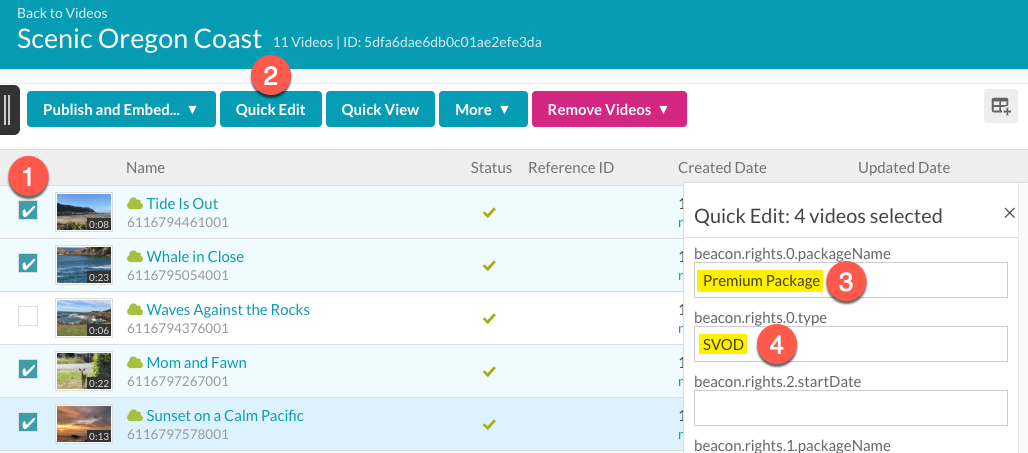
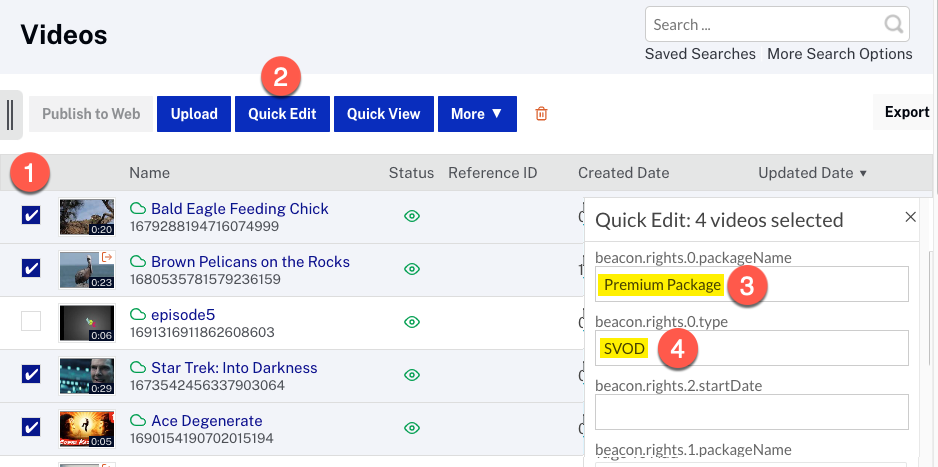
Update Using a Subscription Package for Beacon LA

diff --git a/monetization/using-subscription-package.html b/monetization/using-subscription-package.html
@@ -3,23 +3,18 @@ title: "Using a Subscription Package"
 description: In this topic, you will learn how to use a video subscription package that was created using the <strong>Commerce</strong> tab of Brightcove Beacon. The subscription package implements SVOD (subscription video on demand) monetization. For details on creating the subscription see the <a href="/monetization/creating-subscription-package.html">Creating a Subscription Package</a> document.
 parent: monetization
 ---
-
 <h1>{{ page.title }}</h1>
 <article class="bcls-article">
   <summary>{{ page.description }}</summary>
   <section class="bcls-section">
     <h2 id="Overview">Overview</h2>
     <p>
-      A subscription package defines how a particular set of videos can be purchased by your apps' customers. The subscription package must be created in Brightcove Beacon, and is detailed in the <a href="/monetization/creating-subscription-package.html">Creating a Subscription Package</a> document. Also crucial in the use of the subscription package are the Video Cloud custom fields created for videos in a Video Cloud account, as detailed in the
-      <a href="/syncing-with-video-cloud/vc-custom-fields.html"> Creating Video Cloud Custom Fields </a>
-      document. Specifically, the
-      <a href="/syncing-with-video-cloud/vc-custom-fields.html#Rights_Management_fields"> Rights Management fields
-      </a>
-      will be used.
+      A subscription package defines how a particular set of videos can be purchased by your apps' customers. The subscription package must be created in Brightcove Beacon, and is detailed in the <a href="/monetization/creating-subscription-package.html">Creating a Subscription Package</a> document. Also crucial in the use of the subscription package are the Video Cloud custom fields created for videos in a Video Cloud account, as detailed in the <a href="/monetization/vc-custom-fields.html">Custom Fields for Monetization</a> document. Specifically, the <a href="/monetization/vc-custom-fields.html#Rights_Management_fields">Rights Management fields</a> are used.
     </p>
   </section>
   <section class="bcls-section">
     <h2 id="Understanding_the_rights_management_custom_fields"> Understanding the rights management custom fields </h2>
+    <aside class="bcls-aside bcls-aside--information">For more information on creating and using custom fields with Brightcove Beacon, see the <a href="/monetization/vc-custom-fields.html">Custom Fields for Monetization</a> document.</aside>
     <p>The rights management custom fields consist of:</p>
     <ul>
       <li>beacon.rights.&lt;counter&gt;.type</li>
@@ -36,16 +31,14 @@ parent: monetization
       This is included as you may wish to create multiple sets of rights management fields, and the <strong>&lt;counter&gt;</strong> is utilized so you can use array type syntax to group associated fields.
     </p>
     <p>
-      For instance, say you wanted to create subscription packages around the holidays and have packages for:
-    </p>
+      For instance, say you wanted to create subscription packages around the holidays and have packages for: </p>
     <ul>
       <li>Earth Day</li>
       <li>Arbor Day</li>
       <li>New Years</li>
     </ul>
     <p>
-      You must go into Video Cloud and create three sets of rights management fields, using counter values of 0-2 (or 1-3 if you prefer) that would appear as shown here:
-    </p>
+      You must go into Video Cloud and create three sets of rights management fields, using counter values of 0-2 (or 1-3 if you prefer) that would appear as shown here: </p>
     <figure class="bcls-figure">
       <img class="bcls-image" src="/assets/images/monetization/using-subscription-package/index-of-rights-fields.png" alt="index of rights fields" />
     </figure>
@@ -77,8 +70,7 @@ parent: monetization
     </ul>
   </section>
   <section class="bcls-section">
-    <h2 id="Subscription_interval_support"> Subscription interval support
-    </h2>
+    <h2 id="Subscription_interval_support"> Subscription interval support </h2>
     <p>
       The following table shows the time intervals supported for recurring subscriptions for each store: </p>
     <table class="bcls-table">
@@ -140,23 +132,16 @@ parent: monetization
   <section class="bcls-section">
     <h2 id="Assigning_a_single_video_to_a_package"> Assigning a single video to a package </h2>
     <p>
-      To assign a single video to a package you must use Video Cloud Studio.
-      Perform the following steps:
+      To assign a single video to a package use Beacon Studio. Perform the following steps:
     </p>
     <ol class="bcls-tasklist">
-      <li>In Studio, navigate to the <strong>Media</strong> module.</li>
+      <li>Log in to Beacon Studio.</li>
+      <li>From the primary navigation, select the <strong>Media</strong> module.</li>
+      <li>Click the video name to which you wish to add custom field values, which displays that video's properties.</li>
+      <li>Click the <strong>Video and Tracks</strong> tab.</li>
+      <li>In the <strong>CUSTOM FIELDS</strong> section (right side), click <strong>Edit</strong> button.</li>
       <li>
-        Click on the video's title you are adding to the package to see that video's properties.
-      </li>
-      <li>
-        Scroll down until you see the <strong>Custom Fields</strong> section on the right hand side and click the <strong>Edit</strong> button.
-        <figure class="bcls-figure">
-          <img class="bcls-image" src="/assets/images/monetization/using-subscription-package/single-video-edit-fields.png" alt="index of rights fields" />
-        </figure>
-      </li>
-      <li>
-        Place the name of the subscription package created in Brightcove Beacon in the
-        <code translate="No">beacon.rights.&lt;counter&gt;.packageName</code> field.
+        Place the name of the subscription package created in Brightcove Beacon in the <code translate="No">beacon.rights.&lt;counter&gt;.packageName</code> field.
       </li>
       <li>
         Since you are using a package, you MUST set the <code translate="No">beacon.rights.&lt;counter&gt;.type</code> to <strong>SVOD</strong>.
@@ -164,9 +149,7 @@ parent: monetization
           <img class="bcls-image" src="/assets/images/monetization/using-subscription-package/custom-fields.png" alt="index of rights fields" />
         </figure>
       </li>
-      <li>
-        Scroll to the bottom of the list of custom fields and click the <strong>Save</strong> button.
-      </li>
+      <li>At either the top or bottom of the list of custom fields, click <strong>Save</strong>.</li>
     </ol>
   </section>
   <section class="bcls-section">
@@ -180,7 +163,7 @@ parent: monetization
     </p>
     <ol class="bcls-tasklist-restart">
       <li>
-        In Studio, navigate to the <strong>Media</strong> module and check the checkbox in front of each video you wish to add to the package.
+        In Beacon Studio, navigate to the <strong>Media</strong> module and check the checkbox in front of each video you wish to add to the package.
       </li>
       <li>Click the <strong>Quick Edit</strong> button.</li>
       <li>
@@ -193,26 +176,5 @@ parent: monetization
         At the bottom of the <strong>Quick Edit</strong> section, click the <strong>Save</strong> button.
       </li>
     </ol>
-  </section>
-  <section class="bcls-section">
-    <h2 id="Ingesting_the_videos_into_Brightcove_Beacon"> Ingesting the videos into Brightcove Beacon </h2>
-    <p>
-      You now have associated one or videos with your subscription package. You now have to ingest those associations into Brightcove Beacon. To do this, follow these steps:
-    </p>
-    <ol class="bcls-tasklist-restart">
-      <li>Log in to Brightcove Beacon.</li>
-      <li>Click on the wrench icon (Tools).</li>
-      <li>From the left side navigation click <strong>Ingestion</strong>.</li>
-      <li>Click the <strong>Update Brightcove Videos</strong> button.</li>
-      <li>
-        If any errors are reported, check those to be sure none are related to your subscription package.
-      </li>
-      <li>
-        If you wish to have the new associations immediately active in Brightcove Beacon, you must clear the current cache. To do this, from the left side navigation click <strong>Cache</strong>, then click <strong>Cache Purge</strong>.
-      </li>
-    </ol>
-    <p>
-      For more details on the actions taken in this section, see the <a href="/using-brightcove-beacon/tools.html">Using the Tools</a> document.
-    </p>
   </section>
 </article>

diff --git a/_site/monetization/using-subscription-package.html b/_site/monetization/using-subscription-package.html
@@ -763,16 +763,12 @@ function doGTranslate(lang_pair) {if(lang_pair.value)lang_pair=lang_pair.value;i
   <section class="bcls-section">
     <h2 id="Overview">Overview</h2>
     <p>
-      A subscription package defines how a particular set of videos can be purchased by your apps' customers. The subscription package must be created in Brightcove Beacon, and is detailed in the <a href="/monetization/creating-subscription-package.html">Creating a Subscription Package</a> document. Also crucial in the use of the subscription package are the Video Cloud custom fields created for videos in a Video Cloud account, as detailed in the
-      <a href="/syncing-with-video-cloud/vc-custom-fields.html"> Creating Video Cloud Custom Fields </a>
-      document. Specifically, the
-      <a href="/syncing-with-video-cloud/vc-custom-fields.html#Rights_Management_fields"> Rights Management fields
-      </a>
-      will be used.
+      A subscription package defines how a particular set of videos can be purchased by your apps' customers. The subscription package must be created in Brightcove Beacon, and is detailed in the <a href="/monetization/creating-subscription-package.html">Creating a Subscription Package</a> document. Also crucial in the use of the subscription package are the Video Cloud custom fields created for videos in a Video Cloud account, as detailed in the <a href="/monetization/vc-custom-fields.html">Custom Fields for Monetization</a> document. Specifically, the <a href="/monetization/vc-custom-fields.html#Rights_Management_fields">Rights Management fields</a> are used.
     </p>
   </section>
   <section class="bcls-section">
     <h2 id="Understanding_the_rights_management_custom_fields"> Understanding the rights management custom fields </h2>
+    <aside class="bcls-aside bcls-aside--information">For more information on creating and using custom fields with Brightcove Beacon, see the <a href="/monetization/vc-custom-fields.html">Custom Fields for Monetization</a> document.</aside>
     <p>The rights management custom fields consist of:</p>
     <ul>
       <li>beacon.rights.&lt;counter&gt;.type</li>
@@ -789,16 +785,14 @@ function doGTranslate(lang_pair) {if(lang_pair.value)lang_pair=lang_pair.value;i
       This is included as you may wish to create multiple sets of rights management fields, and the <strong>&lt;counter&gt;</strong> is utilized so you can use array type syntax to group associated fields.
     </p>
     <p>
-      For instance, say you wanted to create subscription packages around the holidays and have packages for:
-    </p>
+      For instance, say you wanted to create subscription packages around the holidays and have packages for: </p>
     <ul>
       <li>Earth Day</li>
       <li>Arbor Day</li>
       <li>New Years</li>
     </ul>
     <p>
-      You must go into Video Cloud and create three sets of rights management fields, using counter values of 0-2 (or 1-3 if you prefer) that would appear as shown here:
-    </p>
+      You must go into Video Cloud and create three sets of rights management fields, using counter values of 0-2 (or 1-3 if you prefer) that would appear as shown here: </p>
     <figure class="bcls-figure">
       <img class="bcls-image" src="/assets/images/monetization/using-subscription-package/index-of-rights-fields.png" alt="index of rights fields" />
     </figure>
@@ -830,8 +824,7 @@ function doGTranslate(lang_pair) {if(lang_pair.value)lang_pair=lang_pair.value;i
     </ul>
   </section>
   <section class="bcls-section">
-    <h2 id="Subscription_interval_support"> Subscription interval support
-    </h2>
+    <h2 id="Subscription_interval_support"> Subscription interval support </h2>
     <p>
       The following table shows the time intervals supported for recurring subscriptions for each store: </p>
     <table class="bcls-table">
@@ -893,23 +886,16 @@ function doGTranslate(lang_pair) {if(lang_pair.value)lang_pair=lang_pair.value;i
   <section class="bcls-section">
     <h2 id="Assigning_a_single_video_to_a_package"> Assigning a single video to a package </h2>
     <p>
-      To assign a single video to a package you must use Video Cloud Studio.
-      Perform the following steps:
+      To assign a single video to a package use Beacon Studio. Perform the following steps:
     </p>
     <ol class="bcls-tasklist">
-      <li>In Studio, navigate to the <strong>Media</strong> module.</li>
+      <li>Log in to Beacon Studio.</li>
+      <li>From the primary navigation, select the <strong>Media</strong> module.</li>
+      <li>Click the video name to which you wish to add custom field values, which displays that video's properties.</li>
+      <li>Click the <strong>Video and Tracks</strong> tab.</li>
+      <li>In the <strong>CUSTOM FIELDS</strong> section (right side), click <strong>Edit</strong> button.</li>
       <li>
-        Click on the video's title you are adding to the package to see that video's properties.
-      </li>
-      <li>
-        Scroll down until you see the <strong>Custom Fields</strong> section on the right hand side and click the <strong>Edit</strong> button.
-        <figure class="bcls-figure">
-          <img class="bcls-image" src="/assets/images/monetization/using-subscription-package/single-video-edit-fields.png" alt="index of rights fields" />
-        </figure>
-      </li>
-      <li>
-        Place the name of the subscription package created in Brightcove Beacon in the
-        <code translate="No">beacon.rights.&lt;counter&gt;.packageName</code> field.
+        Place the name of the subscription package created in Brightcove Beacon in the <code translate="No">beacon.rights.&lt;counter&gt;.packageName</code> field.
       </li>
       <li>
         Since you are using a package, you MUST set the <code translate="No">beacon.rights.&lt;counter&gt;.type</code> to <strong>SVOD</strong>.
@@ -917,9 +903,7 @@ function doGTranslate(lang_pair) {if(lang_pair.value)lang_pair=lang_pair.value;i
           <img class="bcls-image" src="/assets/images/monetization/using-subscription-package/custom-fields.png" alt="index of rights fields" />
         </figure>
       </li>
-      <li>
-        Scroll to the bottom of the list of custom fields and click the <strong>Save</strong> button.
-      </li>
+      <li>At either the top or bottom of the list of custom fields, click <strong>Save</strong>.</li>
     </ol>
   </section>
   <section class="bcls-section">
@@ -933,7 +917,7 @@ function doGTranslate(lang_pair) {if(lang_pair.value)lang_pair=lang_pair.value;i
     </p>
     <ol class="bcls-tasklist-restart">
       <li>
-        In Studio, navigate to the <strong>Media</strong> module and check the checkbox in front of each video you wish to add to the package.
+        In Beacon Studio, navigate to the <strong>Media</strong> module and check the checkbox in front of each video you wish to add to the package.
       </li>
       <li>Click the <strong>Quick Edit</strong> button.</li>
       <li>
@@ -946,27 +930,6 @@ function doGTranslate(lang_pair) {if(lang_pair.value)lang_pair=lang_pair.value;i
         At the bottom of the <strong>Quick Edit</strong> section, click the <strong>Save</strong> button.
       </li>
     </ol>
-  </section>
-  <section class="bcls-section">
-    <h2 id="Ingesting_the_videos_into_Brightcove_Beacon"> Ingesting the videos into Brightcove Beacon </h2>
-    <p>
-      You now have associated one or videos with your subscription package. You now have to ingest those associations into Brightcove Beacon. To do this, follow these steps:
-    </p>
-    <ol class="bcls-tasklist-restart">
-      <li>Log in to Brightcove Beacon.</li>
-      <li>Click on the wrench icon (Tools).</li>
-      <li>From the left side navigation click <strong>Ingestion</strong>.</li>
-      <li>Click the <strong>Update Brightcove Videos</strong> button.</li>
-      <li>
-        If any errors are reported, check those to be sure none are related to your subscription package.
-      </li>
-      <li>
-        If you wish to have the new associations immediately active in Brightcove Beacon, you must clear the current cache. To do this, from the left side navigation click <strong>Cache</strong>, then click <strong>Cache Purge</strong>.
-      </li>
-    </ol>
-    <p>
-      For more details on the actions taken in this section, see the <a href="/using-brightcove-beacon/tools.html">Using the Tools</a> document.
-    </p>
   </section>
 </article>
 <!-- complete bootstrap layout -->

diff --git a/_site/monetization/implementing-authvod.html b/_site/monetization/implementing-authvod.html
@@ -823,6 +823,7 @@ function doGTranslate(lang_pair) {if(lang_pair.value)lang_pair=lang_pair.value;i
       <li>In the <strong>CUSTOM FIELDS</strong> section (right side), click <strong>Edit</strong> button.</li>
       <li>For the <strong>beacon.rights.&lt;counter&gt;.packageName</strong>, enter the name of your AuthVOD package created earlier.</li>
       <li>For the <strong>beacon.rights.&lt;counter&gt;.type</strong>, enter <strong>SVOD</strong>.</li>
+      <li>At either the top or bottom of the list of custom fields, click <strong>Save</strong>.</li>
     </ol>
     <p>The following screenshot shows an example of actual values used in the custom fields. In this case, the <strong>counter</strong> is zero (highlighted in red) and the package name is <strong>AuthVOD Test</strong> (highlighted in yellow). Remember when implementing AuthVOD, the <strong>beacon.rights.&lt;counter&gt;.type</strong> is always set to <strong>SVOD</strong>.</p>
     <figure class="bcls-figure">

diff --git a/monetization/implementing-authvod.html b/monetization/implementing-authvod.html
@@ -69,6 +69,7 @@ parent: "Using Brightcove Beacon"
       <li>In the <strong>CUSTOM FIELDS</strong> section (right side), click <strong>Edit</strong> button.</li>
       <li>For the <strong>beacon.rights.&lt;counter&gt;.packageName</strong>, enter the name of your AuthVOD package created earlier.</li>
       <li>For the <strong>beacon.rights.&lt;counter&gt;.type</strong>, enter <strong>SVOD</strong>.</li>
+      <li>At either the top or bottom of the list of custom fields, click <strong>Save</strong>.</li>
     </ol>
     <p>The following screenshot shows an example of actual values used in the custom fields. In this case, the <strong>counter</strong> is zero (highlighted in red) and the package name is <strong>AuthVOD Test</strong> (highlighted in yellow). Remember when implementing AuthVOD, the <strong>beacon.rights.&lt;counter&gt;.type</strong> is always set to <strong>SVOD</strong>.</p>
     <figure class="bcls-figure">

diff --git a/_site/monetization/monetization-options.html b/_site/monetization/monetization-options.html
@@ -890,7 +890,7 @@ function doGTranslate(lang_pair) {if(lang_pair.value)lang_pair=lang_pair.value;i
 
 <hr>
 <div id="last_updated" class="last-updated">
-  Page last updated on 15 Mar 2021
+  Page last updated on 21 Mar 2021
 </div>
 
 
